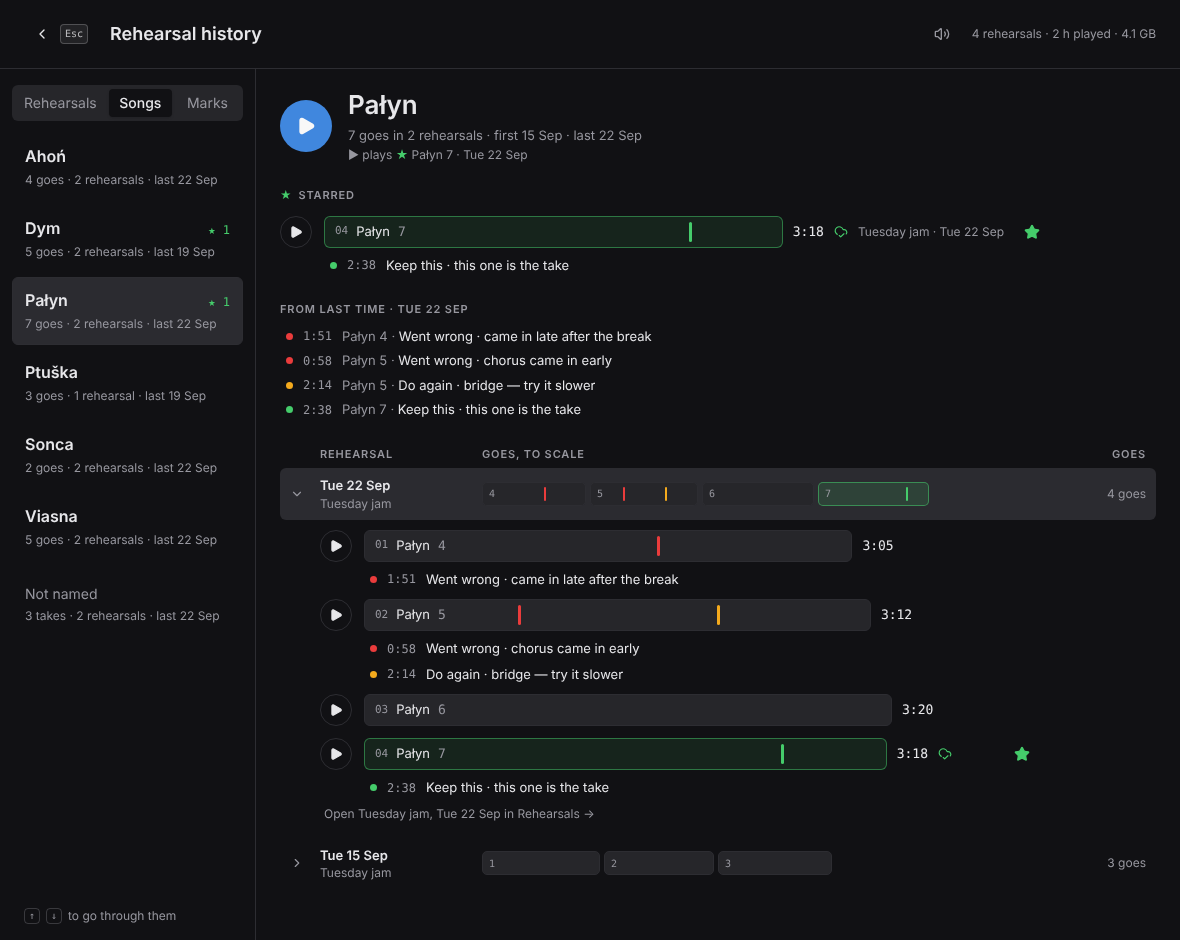
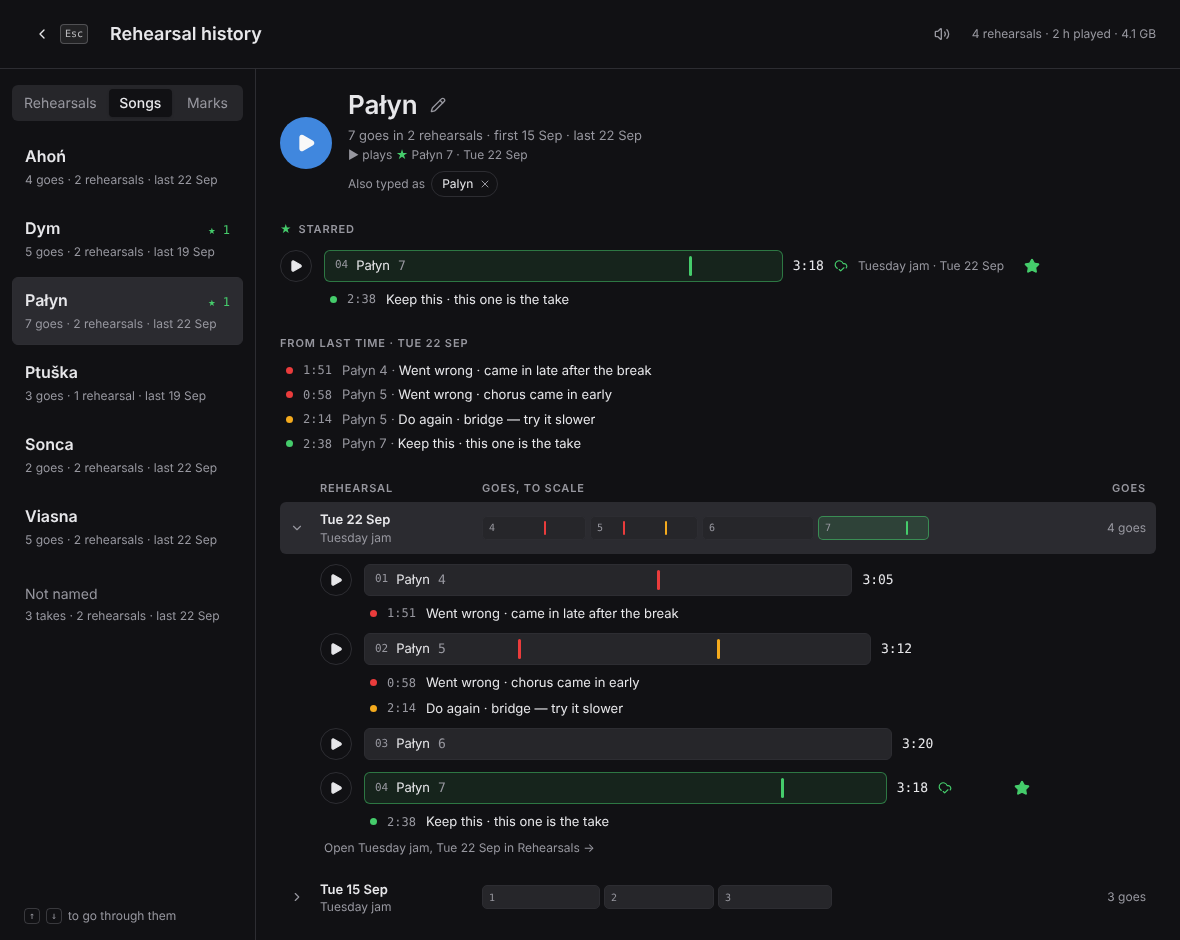
reha.stream and the docs: renaming and merging songs
Claude-Session: https://claude.ai/code/session_01DdZwGPxCQwCPmJWRSwrAhN

diff --git a/site/src/page/pieces.tsx b/site/src/page/pieces.tsx
@@ -6,17 +6,31 @@ import { HealthLine } from "@/components/HealthLine"
 import { RehearsalList } from "@/components/RehearsalList"
 import { RehearsalOverview } from "@/components/RehearsalOverview"
 import { StopTake } from "@/components/StopTake"
+import { TakeNameField } from "@/components/TakeNameField"
 import { TrackTile } from "@/components/TrackTile"
-import { api, type RehearsalDetail, type RehearsalSummary } from "@/lib/api"
+import { api, type RehearsalDetail, type RehearsalSummary, type SongChoices } from "@/lib/api"
 import type { TILES } from "../content"
 
-export type PieceData = { rehearsals: RehearsalSummary[]; last: RehearsalDetail }
+export type PieceData = {
+  rehearsals: RehearsalSummary[]
+  last: RehearsalDetail
+  /** The songs under the Next take field, with Pałyn also typed as Palyn. */
+  choices: SongChoices
+}
 
-/** What the tiles show, asked of the bridge as the history screen would. */
+/** What the tiles show, asked of the bridge as the history screen and the
+ *  rehearsal screen would. */
 export async function loadPieces(): Promise<PieceData> {
   const rehearsals = await api().list_rehearsals()
   const last = await api().get_rehearsal(rehearsals[0].folder)
-  return { rehearsals, last }
+  // As at the band's next rehearsal: each song at one past its last go in
+  // the newest one, as Python counts goes across the library (the fake
+  // counts them from 1 each evening).
+  const offered = await api().song_choices()
+  const next = (song: string) =>
+    Math.max(0, ...last.takes.filter((t) => t.song === song).map((t) => t.go ?? 0)) + 1
+  const choices = { here: [], other: offered.other.map((c) => ({ ...c, go: next(c.song) })) }
+  return { rehearsals, last, choices }
 }
 
 const nothing = () => {}
@@ -67,7 +81,11 @@ function Goes({ last, song, only }: { last: RehearsalDetail; song: string; only?
 export type Shot = { pieces: ReactNode; left?: boolean }
 
 /** Which piece goes beside which tile's words, by the tile's id. */
-export function shots({ rehearsals, last }: PieceData): Record<(typeof TILES)[number], Shot | null> {
+export function shots({
+  rehearsals,
+  last,
+  choices,
+}: PieceData): Record<(typeof TILES)[number], Shot | null> {
   const kept = last.takes.find((t) => t.cloud && t.starred)
   return {
     health: {
@@ -105,6 +123,24 @@ export function shots({ rehearsals, last }: PieceData): Record<(typeof TILES)[nu
       pieces: (
         <Piece wide label="Four goes at the song Pałyn, with their marks and comments">
           <Goes last={last} song="Pałyn" />
+        </Piece>
+      ),
+    },
+    names: {
+      left: true,
+      pieces: (
+        <Piece label="The Next take field with Palyn typed: Palyn is Pałyn now, at its next go">
+          <div className="w-[23rem] max-w-full">
+            <TakeNameField
+              id="site-next-take"
+              label="Next take"
+              value="Palyn"
+              fallback="Pałyn"
+              choices={choices}
+              onCommit={nothing}
+              onPanel
+            />
+          </div>
         </Piece>
       ),
     },

diff --git a/site/e2e/page.spec.ts b/site/e2e/page.spec.ts
@@ -78,6 +78,26 @@ test("the tiles show the app's own pieces", async ({ page }) => {
   await expect(tiles.getByText("Soundcheck")).toBeVisible()
   await expect(tiles.getByText("Pałyn").first()).toBeVisible()
   await expect(tiles.getByRole("img", { name: /in the cloud/ }).getByText("1 of 1")).toBeVisible()
+  // Palyn typed in the Next take field: it is Pałyn now.
+  const names = tiles.getByRole("img", { name: /Palyn is Pałyn now/ })
+  await expect(names.locator("[data-take-go]")).toHaveText(/^ → Pałyn \d+$/)
+  await expect(names.getByText("Make Palyn a new song")).toBeVisible()
+})
+
+test("every row of tiles is full", async ({ page }) => {
+  await page.goto("/")
+  const rows = await page.locator("#features .bento").evaluate((bento) => {
+    const right = bento.getBoundingClientRect().right
+    const ends = new Map<number, number>()
+    for (const tile of bento.children) {
+      const box = tile.getBoundingClientRect()
+      const top = Math.round(box.top)
+      ends.set(top, Math.max(ends.get(top) ?? 0, box.right))
+    }
+    return [...ends.values()].map((end) => Math.round(right - end))
+  })
+  expect(rows.length).toBe(4)
+  for (const gap of rows) expect(gap).toBeLessThanOrEqual(1)
 })
 
 test("the story follows the scroll, and the rail goes back", async ({ page }) => {

diff --git a/ui/e2e/band.js b/ui/e2e/band.js
@@ -316,15 +316,6 @@ library = async () => Promise.all(Object.keys(PAST).map(async folder => (
 // Pałyn was typed "Palyn" one night, and merged since: the old spelling
 // still leads to it (Library song_name).
 oldNames.set('palyn', {name: 'Palyn', song: 'Pałyn'});
-// Python numbers goes across the library: a song tonight has not played
-// yet is offered at one past its last go in the evenings before.
-const tonightsChoices = api.song_choices;
-api.song_choices = async (folder, n) => {
-  const c = await tonightsChoices(folder, n);
-  const before = Object.keys(PAST).flatMap(pastTakes);
-  const next = song => Math.max(0, ...before.filter(t => t.song === song).map(t => t.go)) + 1;
-  return {...c, other: c.other.map(x => ({...x, go: next(x.song)}))};
-};
 
 const settings = api.get_settings;
 api.get_settings = async () => ({...(await settings()),

diff --git a/site/src/content/index.test.ts b/site/src/content/index.test.ts
@@ -7,12 +7,13 @@ import { displayVersion, latestVersion, newsLead } from "./changelog"
 // The words in site/content/, as the page will use them. An id spelt wrong
 // there fails here, naming the file, rather than leaving a tile blank.
 describe("the site's content", () => {
-  it("has the seven tiles, in order", () => {
+  it("has the eight tiles, in order", () => {
     expect(content.features.tiles.map((t) => t.id)).toEqual([
       "health",
       "track",
       "rehearsals",
       "marks",
+      "names",
       "cloud",
       "formats",
       "trash",

diff --git a/site/src/content/index.ts b/site/src/content/index.ts
@@ -31,7 +31,16 @@ export type SiteContent = {
   notFound: { title: string; lede: string }
 }
 
-export const TILES = ["health", "track", "rehearsals", "marks", "cloud", "formats", "trash"] as const
+export const TILES = [
+  "health",
+  "track",
+  "rehearsals",
+  "marks",
+  "names",
+  "cloud",
+  "formats",
+  "trash",
+] as const
 export const STEPS = ["setup", "record", "keep", "history", "compare"] as const
 
 const files = import.meta.glob<string>("../../content/*.md", {

diff --git a/site/src/page/Features.tsx b/site/src/page/Features.tsx
@@ -10,9 +10,11 @@ const LAYOUT: Record<Id, string> = {
   track: "tile s2",
   rehearsals: "tile s2",
   marks: "tile s4",
+  names: "tile s4",
   cloud: "tile s2",
   formats: "tile s2",
-  trash: "tile s2 word",
+  // Wide, so the last row is as full as the others.
+  trash: "tile s4 word",
 }
 
 export function Features({ data }: { data: PieceData }) {

diff --git a/docs/using-it.md b/docs/using-it.md
@@ -363,6 +363,29 @@ screen or in History. The folder on disk is renamed too, and a rehearsal
 folder keeps its date: `Tuesday jam - 2026-09-18 19-00`. If you rename a take
 that is open in the player, it starts again from the beginning.
 
+To rename a song, use the pencil beside its title on its page in History.
+Every go is renamed, with its folder on disk and its copies in the cloud
+folder; the files follow in the background, and the background-work list
+says so. A title that differs only in capitals respells the song. Here a
+number at the end is part of the title: "Opus 5" is the whole of it. "Take 4"
+cannot be a song's title, since it is what a take with no song is called.
+
+The same song typed two ways, "Palyn" one night and "Pałyn" the next, is two
+songs until you merge them. Rename song lists the other songs under the
+title: click one, or type its title, and **Rename** becomes **Merge…**. The
+app asks first, saying how many goes from how many rehearsals are renamed
+and what they become. They are numbered after the song's own, in the order
+they were played, so Palyn 1 and 2 become Pałyn 8 and 9; stars stay where
+they were. A merge is not undone in one step: to split a song again, rename
+its takes one by one.
+
+A title a song leaves behind, renamed or merged away, is remembered: typed
+again in any name field, with or without a number, it is that song. The
+field says "Palyn → Pałyn 12", and under the songs, "Palyn is Pałyn now.
+Make Palyn a new song". The link forgets the old name, and the take is a new
+song, Palyn 1. A song's page lists its old names under the title, **Also
+typed as** Palyn, each with × to forget it.
+
 ## History
 
 ![Past rehearsals down the left, the chosen one beside them](screenshots/history.png)
@@ -405,7 +428,9 @@ are starred. The takes nobody named come last, as **Not named**. Click a
 song, or go through them with ↑ and ↓.
 
 A song's page starts with a big **▶**, which plays its newest ★ go, or its
-last go when none is starred. Its ★ goes come next, then the marks left on it
+last go when none is starred. The pencil beside the title renames the song,
+or merges it into another (see [Names and songs](#names-and-songs)); what is
+playing stops first. Its ★ goes come next, then the marks left on it
 the last time it was played; a mark opens its take at that spot. Then every
 go at the song, one line a rehearsal, newest first: the rehearsal's day and
 name, and its goes as bars side by side, all drawn to the song's longest go.

diff --git a/CHANGELOG.md b/CHANGELOG.md
@@ -7,6 +7,14 @@ opening.
 
 ## Unreleased
 
+- **Rename a song, or merge two.** The pencil beside a song's title on its
+  page in History renames it: every go, with its folder on disk and its
+  cloud copies, the files following in the background. The other songs are
+  listed under the title; picking one merges the song into it, after
+  asking, its goes numbered after the other song's own. A title left
+  behind is remembered: "Palyn" typed again in any name field is Pałyn's
+  next go, and the field says so, with *Make Palyn a new song* for when it
+  is not. The song's page lists these old names, each to forget.
 - **Every mark by its label.** History has a third view, *Marks*: the
   labels down the left, with how many marks each has, in how many
   rehearsals, and the newest; beside them every mark with the chosen label,

diff --git a/site/content/features.md b/site/content/features.md
@@ -23,6 +23,11 @@ What was played, how long it ran, what it weighs. Nothing to fill in.
 
 Keep this, Went wrong or the band's own, with a comment, right on the take.
 
+## Spell it however you like. {#names}
+
+Typed Palyn one night and Pałyn the next? Merge them once, and the old
+spelling still finds the song.
+
 ## The good takes go to the cloud. {#cloud}
 
 Only the ones you keep, into your Drive or Dropbox folder.
